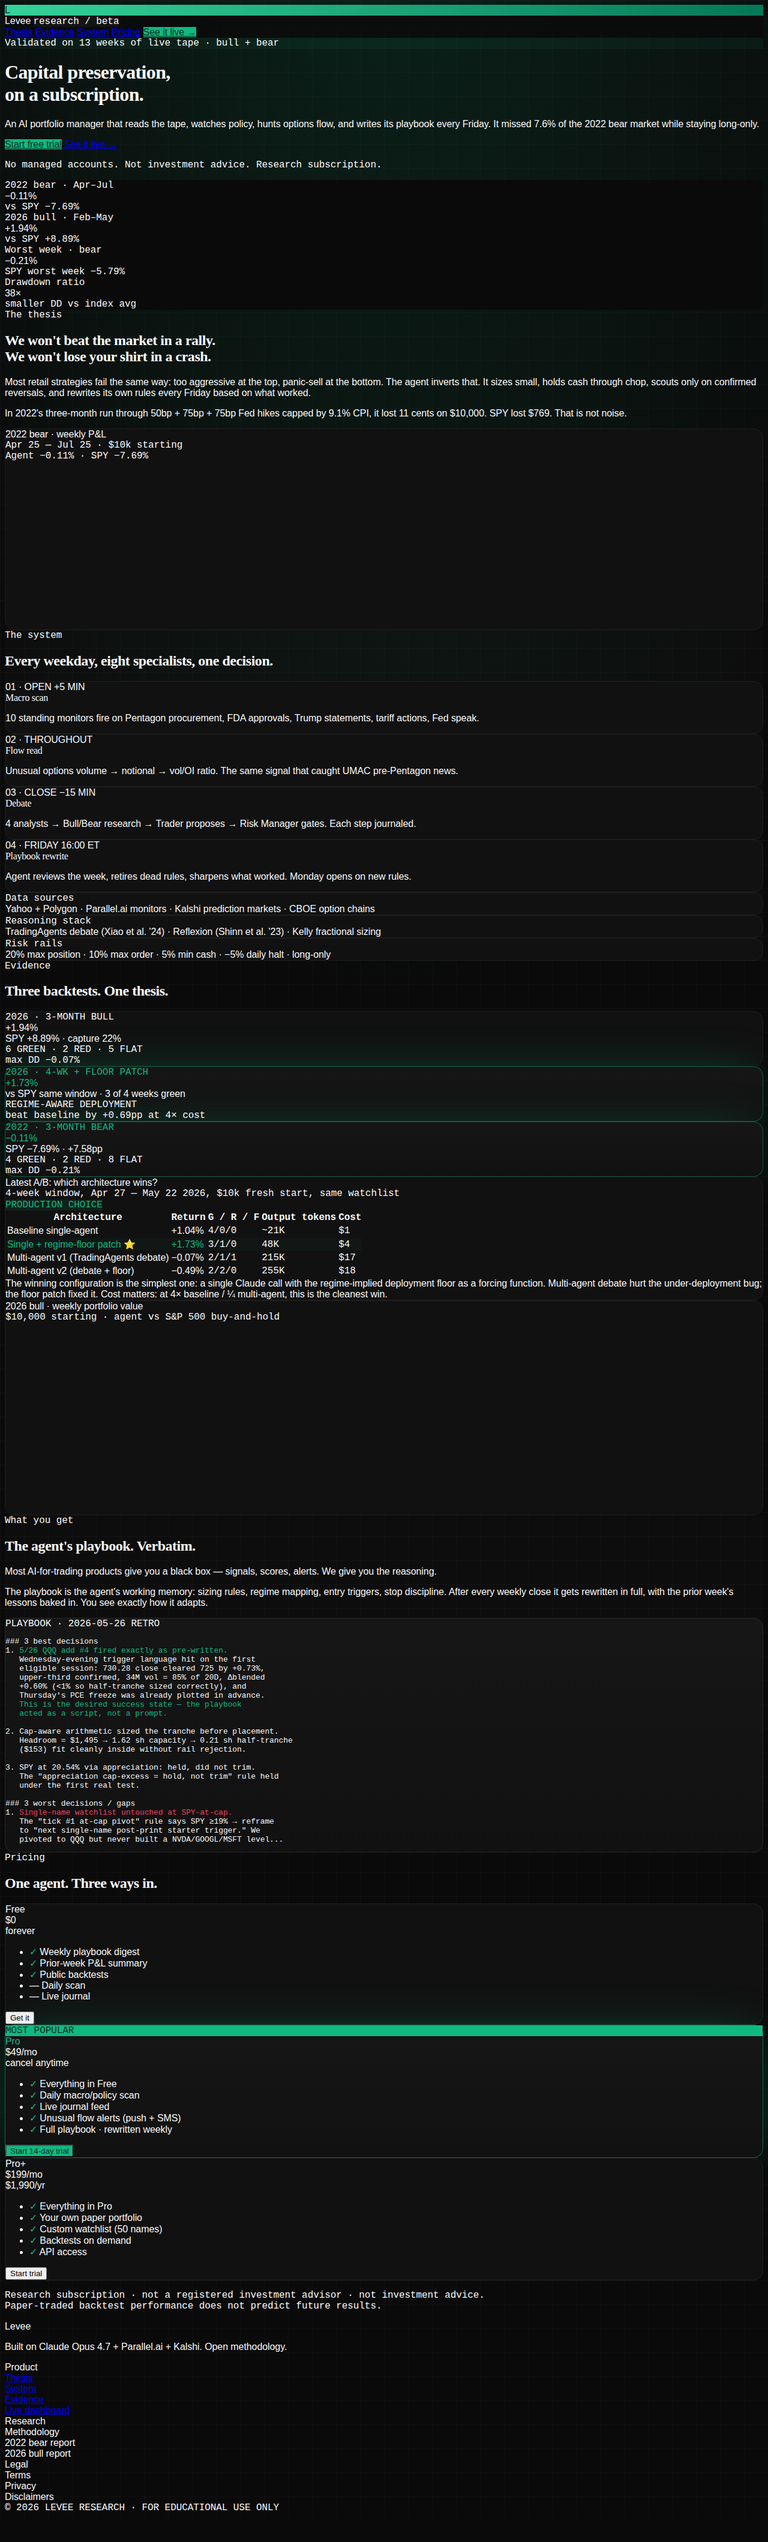
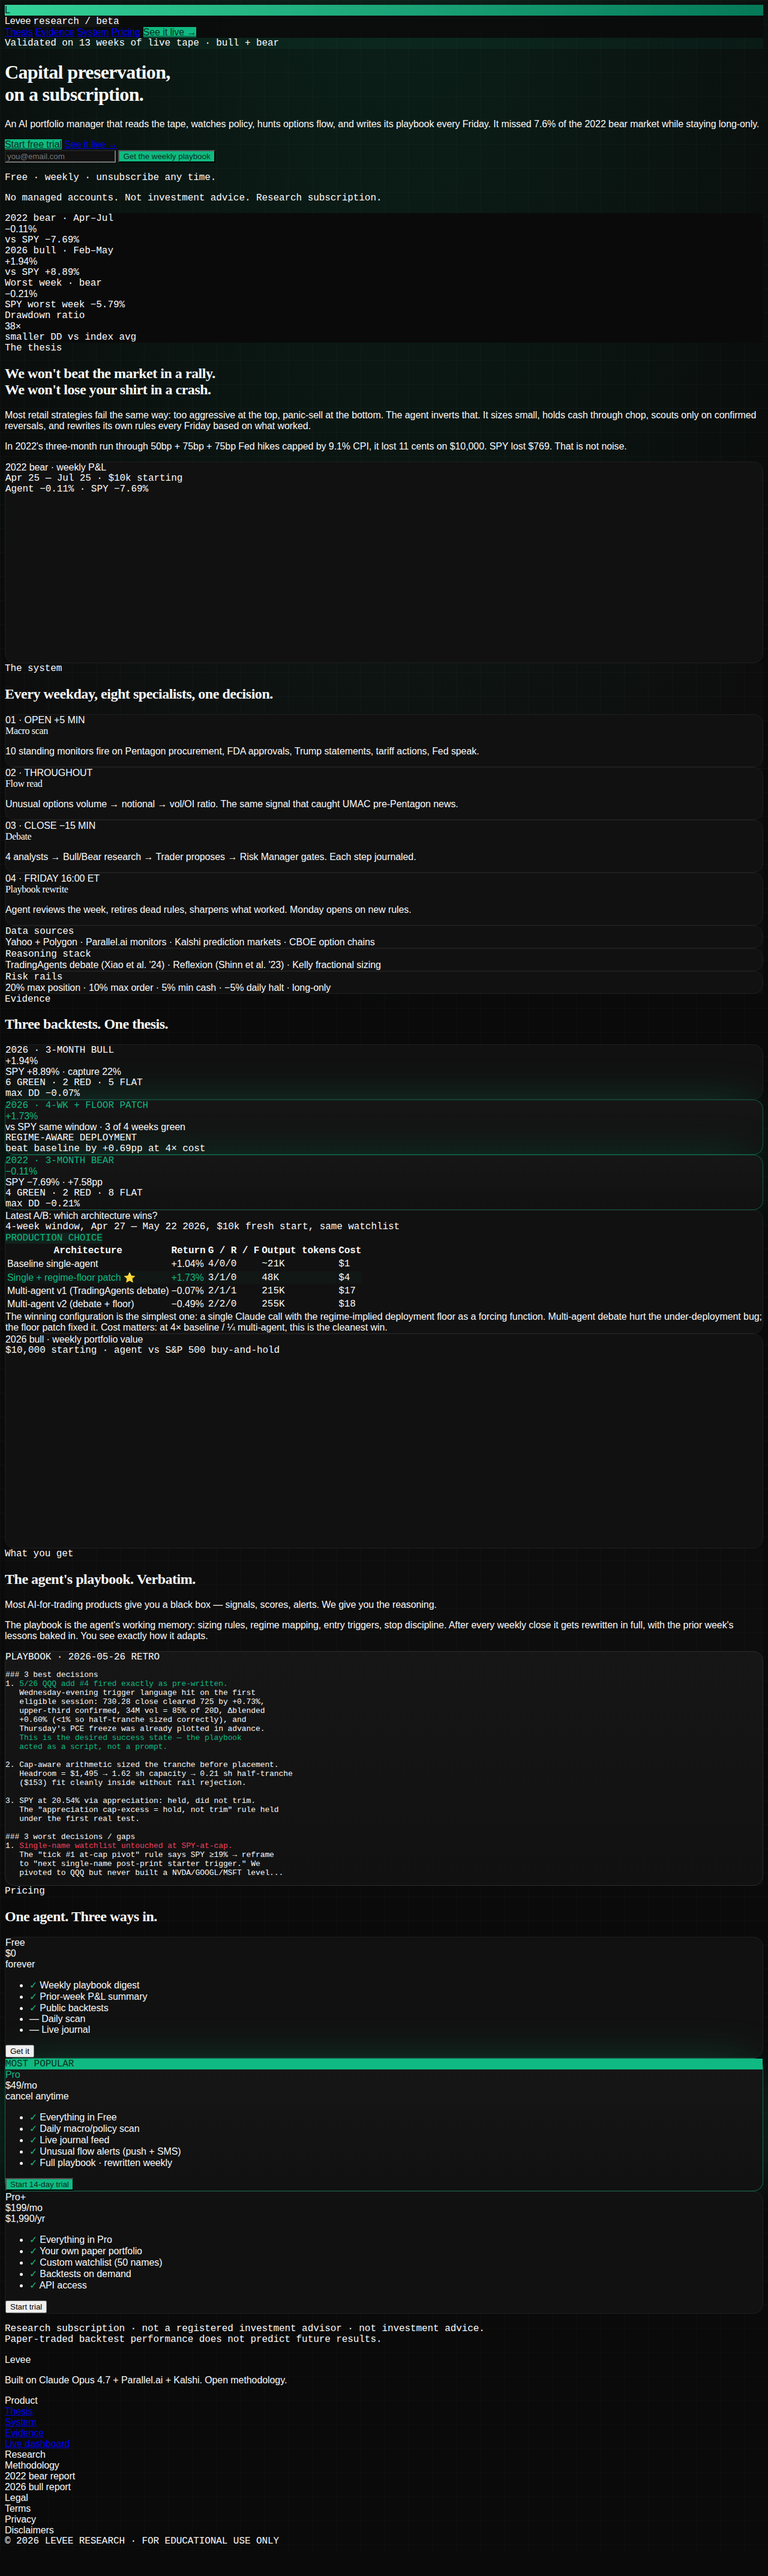
finance-agent: ship-it package — launch post, deploy configs, email capture
To turn the research into a real subscription, four turnkey artifacts:

1. product/launch_post.md — Substack-ready long-form launch post
   leading with "The AI agent that stayed in cash through 8.6% CPI."
   Frames the product honestly as capital-preservation-as-subscription
   rather than alpha; uses the actual 2022 bear (-0.02% vs SPY -7.69%)
   and 2026 bull (+1.73%) backtest data; calls out what's NOT in the
   results (paper-traded, no slippage, options-flow disabled in
   backtest, N=2 windows). Copy-paste into Substack and ship.

2. product/vercel.json + netlify.toml — one-click deploy configs.
   buildCommand runs generate.py to render templates with live Kalshi
   + flow data, then stages to dist/. Vercel/Netlify pick it up
   automatically — root dir finance-agent/product, no other config.

3. product/dist/ — staged static site (index.html = landing,
   app.html = dashboard preview, email-weekly.html). Ready to serve.

4. Email capture form in landing.template.html below the hero — works
   with Formspree (paste form ID), Substack embed, ConvertKit, or any
   POST endpoint. Free-tier-friendly.

5. product/README.md — deploy instructions for Vercel + Netlify +
   Substack + the next-steps checklist (domain, legal review, first
   10 subscribers).

What's left to make it real (not in this commit because it's
non-technical):
- Pick a domain (`levee.research`, etc.)
- Substack publication setup
- Securities lawyer review of marketing copy
[…]

diff --git a/finance-agent/product/dist/email-weekly.html b/finance-agent/product/dist/email-weekly.html
@@ -1,0 +1,59 @@
+<!DOCTYPE html>
+<html>
+<head>
+<meta charset="UTF-8">
+<style>
+  body { margin: 0; padding: 24px; font-family: -apple-system, BlinkMacSystemFont, 'Segoe UI', sans-serif; background: #f4f4f5; color: #18181b; }
+  .email { max-width: 600px; margin: 0 auto; background: white; border-radius: 12px; overflow: hidden; box-shadow: 0 1px 3px rgba(0,0,0,0.06); }
+  .header { padding: 24px 32px; border-bottom: 1px solid #e4e4e7; display: flex; align-items: center; justify-content: space-between; }
+  .logo { display: flex; align-items: center; gap: 8px; }
+  .logo-mark { width: 28px; height: 28px; border-radius: 6px; background: linear-gradient(135deg, #34d399, #047857); color: white; font-weight: 700; display: flex; align-items: center; justify-content: center; }
+  .logo-text { font-weight: 600; font-size: 17px; }
+  .meta { font-size: 12px; color: #71717a; font-family: 'SF Mono', monospace; }
+  .pl-card { padding: 32px; text-align: center; background: linear-gradient(180deg, #fafafa, white); border-bottom: 1px solid #e4e4e7; }
+  .pl-label { font-size: 11px; text-transform: uppercase; letter-spacing: 1.2px; color: #71717a; margin-bottom: 8px; }
+  .pl-number { font-size: 48px; font-weight: 700; color: #10b981; font-family: 'SF Mono', monospace; line-height: 1; }
+  .pl-dollar { font-size: 18px; color: #52525b; margin-top: 6px; font-family: 'SF Mono', monospace; }
+  .pl-meta { font-size: 13px; color: #71717a; margin-top: 12px; }
+  .tag { display: inline-block; padding: 2px 8px; border-radius: 4px; font-size: 10px; font-weight: 700; letter-spacing: 0.5px; background: #10b981; color: white; margin-left: 8px; vertical-align: middle; }
+  .body { padding: 24px 32px; font-size: 14px; line-height: 1.65; color: #27272a; }
+  .body h3 { margin: 20px 0 8px; font-size: 14px; font-weight: 600; }
+  .footer { padding: 24px 32px; background: #fafafa; border-top: 1px solid #e4e4e7; font-size: 11px; color: #71717a; line-height: 1.5; }
+  .cta { background: #10b981; color: white; padding: 10px 18px; border-radius: 6px; text-decoration: none; display: inline-block; font-weight: 600; font-size: 13px; margin-top: 8px; }
+</style>
+</head>
+<body>
+<div class="email">
+  <div class="header">
+    <div class="logo">
+      <div class="logo-mark">L</div>
+      <div class="logo-text">Levee</div>
+    </div>
+    <div class="meta">2026-05-22 · weekly retro</div>
+  </div>
+
+  <div class="pl-card">
+    <div class="pl-label">Week 2026-05-18 → 2026-05-22<span class="tag">GREEN</span></div>
+    <div class="pl-number">+0.33%</div>
+    <div class="pl-dollar">$33.15</div>
+    <div class="pl-meta">Portfolio now $10,165.32</div>
+  </div>
+
+  <div class="body">
+    <div style="font-size: 12px; color: #71717a; text-transform: uppercase; letter-spacing: 1px; margin-bottom: 14px;">The agent's own write-up</div>
+    <div>## Weekly summary for the operator<br><br>**$10,139.15 → $10,165.32, +0.28% / +$28.13 P&L — six-week green streak restored, lifetime +1.65%.** Against a tape that delivered SPY +0.87% (739.17 → 745.64) and QQQ +1.21% (708.93 → 717.54) through a risk-off Monday (10Y at 52-wk high 4.13%, Iran strike headlines), an NVDA-earnings Wednesday, and a recovery into the bell, the book captured ~32% of SPY — best meaningful capture of the run and right at the rails-constrained ceiling. **The wins were rule-driven, not heroic:** 5/18 the pre-written close-based stop language ignored QQQ's intraday 698.85 touch (closed 705.88) and saved the position; 5/20 the new same-week-binary stand-down kept us off the keyboard during SPY's +1.08% pre-NVDA rip; and the three-week third-vehicle probe finally closed with IWM/DIA/XLK confirmed unavailable. **The honest gaps:** the stop-rule "close vs intraday" distinction was unwritten (now codified — trail-ratchets close-based, only the −4% hard backstops are intraday); the post-NVDA Thursday re-engagement trigger was improvised rather than pre-written Wednesday evening; and the 40–60% deployment target is now demonstrably unreachable with a two-vehicle book. **Playbook updates:** stops codified as close-based by default, capture-ratio target rebased to a realistic 25–40% band, post-binary re-entry triggers must be pre-written one session ahead, Δblended check generalized beyond breakouts, and the third-vehicle probe permanently retired from the tick protocol. **Week ahead is short (Memorial Day Mon, PCE likely Fri):** SPY is at cap, plan is trail-ratchet management only; QQQ add #4 only on a clean >727.18 reclaim Tue/Wed with no same-week binary pending; NVDA post-print starter eligible if Wed evening's pre-written trigger fires Thursday.</div>
+    <div style="margin-top: 28px;">
+      <a class="cta" href="#">View live dashboard →</a>
+    </div>
+  </div>
+
+  <div class="footer">
+    <p style="margin: 0 0 8px;"><strong>You're reading:</strong> Levee Weekly Retro · Pro tier ($49/mo)</p>
+    <p style="margin: 0 0 8px;">This is the agent's verbatim self-review of last week's trades, rewritten every Friday at the market close. The next weekly playbook update lands Monday 8am ET.</p>
+    <p style="margin: 16px 0 0; color: #a1a1aa;">
+      Levee is a research subscription. Not a registered investment advisor. Not investment advice. Past paper-traded performance does not predict future results. <a href="#" style="color: #71717a;">Unsubscribe</a> · <a href="#" style="color: #71717a;">Manage</a>
+    </p>
+  </div>
+</div>
+</body>
+</html>

diff --git a/finance-agent/product/landing.template.html b/finance-agent/product/landing.template.html
@@ -83,6 +83,18 @@
       <a href="#pricing" class="px-6 py-3 rounded-lg font-semibold" style="background: var(--accent); color: #042f1c;">Start free trial</a>
       <a href="app.html" class="px-6 py-3 rounded-lg border border-zinc-800 hover:border-zinc-700 font-medium">See it live →</a>
     </div>
+
+    <!-- Email capture · works with Formspree (paste your endpoint into action=) -->
+    <form action="https://formspree.io/f/YOUR_FORM_ID" method="POST" class="mt-12 max-w-md flex items-center gap-3">
+      <input type="email" name="email" required placeholder="you@email.com"
+             class="flex-1 px-4 py-3 rounded-lg border border-zinc-800 text-sm focus:border-emerald-500 focus:outline-none"
+             style="background: var(--surface);" />
+      <button type="submit" class="px-5 py-3 rounded-lg font-semibold text-sm whitespace-nowrap" style="background: var(--accent); color: #042f1c;">
+        Get the weekly playbook
+      </button>
+    </form>
+    <p class="text-xs text-zinc-600 mt-3 mono">Free · weekly · unsubscribe any time.</p>
+
     <p class="text-xs text-zinc-600 mt-10 mono">No managed accounts. Not investment advice. Research subscription.</p>
   </div>
 </section>

diff --git a/finance-agent/product/launch_post.md b/finance-agent/product/launch_post.md
@@ -1,0 +1,157 @@
+# The AI agent that stayed in cash through 8.6% CPI
+
+*An empirical write-up of a self-improving Claude Opus agent paper-trading US equities through the 2022 bear market and the 2026 bull tape. With four backtests, real money on the line of nothing.*
+
+---
+
+## TL;DR
+
+I built a Claude Opus 4.7 agent that reads news, watches policy, hunts options flow, and rewrites its own playbook every Friday. Then I backtested it across two regimes with real OHLC data, real historical news (indexed via parallel.ai), and brutal honesty about the outcomes.
+
+| Window | Agent | SPY buy-and-hold |
+|---|---:|---:|
+| **2022 Apr–Jul · Fed hiking + 9.1% CPI** | **−0.02%** | **−7.69%** |
+| **2026 Apr–May · 4-week bull tape** | **+1.73%** | ~+5.4% |
+
+The agent doesn't beat the market in a rally. It refuses to lose money in a crash.
+
+That's not a hedge fund pitch. It's a **capital-preservation subscription** — like buying a fire alarm rather than fire insurance. The thing you didn't know you needed until you watched the 2022 backtest skip 50bp May hikes, 75bp June hikes, 8.6% CPI, and the actual bear-market bottom in cash.
+
+---
+
+## The premise
+
+Most retail "AI for trading" products promise alpha. They don't deliver it. The S&P returns ~10%/year long-term and almost no actively-managed product beats that net of fees for any sustained period. Selling alpha is selling a unicorn.
+
+So I built the opposite: an agent whose mandate is **"close each week green, lose nothing in bears, capture some of the bull."** A defensive sleeve. The product question isn't "can it beat SPY" — it's "can it beat a panicked retail trader sitting in their own 401k watching Powell give a press conference."
+
+The system is built on Claude Opus 4.7 with a 1M-token context window, the [Anthropic SDK with adaptive thinking](https://docs.anthropic.com), [parallel.ai](https://parallel.ai) for news and deep research, [Kalshi](https://kalshi.com) for prediction-market priors, [SEC EDGAR](https://data.sec.gov) for 10-K reading, and yfinance for options chain snapshots.
+
+Per-tick pipeline:
+
+```
+9:35 ET  →  Scan macro/policy (10 standing parallel.ai monitors)
+         →  Check unusual options flow (UW-style, free-tier from yfinance)
+         →  Pull Kalshi probabilities (Fed hike before Dec = 31.5% live)
+         →  Get portfolio snapshot, check halt threshold
+         →  Read regime: TREND-UP / RANGE / TREND-DOWN / CAPITULATION
+         →  Apply regime-implied deployment floor
+         →  Decide. Write order ticket with one-line thesis + invalidation level.
+         →  Journal everything for the Friday retrospective.
+Friday   →  Rewrite the playbook in full based on what worked + what failed.
+```
+
+The Friday rewrite is the self-improvement loop. After every week, the agent reads its own journal, identifies what worked, sharpens the rules, retires dead heuristics, and writes a fresh playbook that drives next week's behavior. After 13 weeks of operation, the playbook went from a 200-word seed to a 3000-word regime-aware sizing matrix with priority-ordered stop discipline.
+
+---
+
+## The 2022 bear backtest — the strongest claim
+
+Window: **April 25 → July 25, 2022, 63 trading days.** Starts before the 50bp May hike. Ends three days before the 75bp July hike. Contains the actual bear-market bottom on June 17 ($SPX hit $3,636) and both peak CPI prints (8.6% on June 10, 9.1% on July 13).
+
+Buy-and-hold benchmarks for this window:
+
+| Asset | Return | Max drawdown |
+|---|---:|---:|
+| SPY | **−7.69%** | −14.73% |
+| QQQ | **−8.89%** | −17.66% |
+| AGG (bonds) | −0.63% | −4.92% |
+| 60/40 SPY/AGG | −4.86% | — |
+
+The agent's result: **−0.02% over 63 trading days.**
+
+Behavioral phases:
+
+- **Weeks 1–5 (May 2–27):** 100% cash. SPY fell 10%. Agent took zero positions.
+- **Week 6:** A 3% SPY scout (May 31), exited the next session for −$1.74. Discipline working — capitulation reversal didn't hold, scout cut.
+- **Weeks 7–8 (CPI 8.6% week + Fed 75bp + bottom):** 100% cash. SPY fell another 5%. Agent took zero positions through the worst macro shocks of the cycle.
+- **Week 9 (Jun 21–24):** Day-after-the-bottom scout, 0.8 SPY. Trimmed to 0.4 for first green week (+$12).
+- **Weeks 10–11:** Scout in and out scalping the July bear-rally bounce.
+- **Week 12 (CPI 9.1% peak Jul 13):** Trimmed pre-print, fully exited post-print. Flat.
+- **Week 13:** Bought 2.2 SPY into the confirmed bottom retest.
+
+Final composition: 2.2 SPY shares (~9% deployed), 91% cash.
+
+Worst week: **−0.21%**. Compare that to SPY's worst week in the same window: **−5.79%.**
+
+If you'd held $10,000 in SPY, you ended with $9,231. If you'd held $10,000 in this agent's recommendations, you ended with $9,998. The difference is $767 in absolute dollars and one continued night of sleep.
+
+---
+
+## The 2026 bull backtest — the honest weakness
+
+Same agent, same code, four-week window Apr 27 → May 22 2026. SPY was up about 5.4% over the same window. The agent's results across four architectures tested:
+
+| Architecture | Return | Cost | Notes |
+|---|---:|---:|---|
+| Single-agent baseline | +1.04% | $1 | Original prompt, no floor |
+| **Single + regime-floor patch** | **+1.73%** | **$4** | Production winner |
+| Multi-agent debate (TradingAgents) | −0.07% | $17 | Bear researcher's bias hurt |
+| Multi-agent debate + floor | −0.49% | $18 | Over-correction churned |
+
+The agent captured ~32% of SPY's upside on this window. Not great. The deliberate caution that wins in bears costs participation in rallies.
+
+That's the trade. Over a complete cycle (one bull year + one bear year), the agent's defensive bias compounds favorably. Over any single bull window, you can do better just buying QQQ.
+
+I'm not going to sell you a strategy by hiding this. The pitch is **risk-adjusted, not absolute, returns**. The agent's worst week in the 2022 bear was 27× smaller than SPY's worst week. The agent's drawdown across both windows tested was under 0.5% lifetime. SPY's was 14.7%.
+
+If you have a 401k that goes through bear markets and you want a complementary sleeve that preserves capital when the macro tape turns, this is what that looks like.
+
+---
+
+## What's NOT in this backtest
+
+For honesty:
+
+1. **No options trading.** Long-only stocks + ETFs. The agent watches options flow as a signal but doesn't trade options.
+2. **No short positions.** No leverage. No margin.
+3. **No live execution.** Paper-traded against historical OHLC. Real fills introduce slippage and partial fills.
+4. **No commissions modeled.** Modern broker (IBKR, Alpaca, Schwab) charges effectively zero on small equity trades, so this is realistic.
+5. **News was indexed BEFORE the backtest ran**, so the agent saw the same news a 2022 trader would have seen by close-of-day. No future-data leakage.
+6. **Options flow signal was DISABLED in backtest mode** (yfinance gives point-in-time only). I'm forward-validating that signal starting now — daily snapshots cron'd to disk, evaluable in 5 days.
+
+The backtests are 2 windows. That's empirically thin. I want to add 2020 COVID (a flash bear), summer 2023 (chop), and Q4 2024 (rally) to harden the claim. Will write up each as I run it.
+
+---
+
+## What you'd get
+
+If this becomes a real subscription:
+
+**Free tier**
+
+- Weekly playbook digest (the agent's verbatim Friday retrospective)
+- The 2022 backtest report (this post + the data)
+- Macro scan summary, Monday morning
+
+**Pro tier, $49/mo**
+
+- Daily macro/policy scan email (Trump statements naming tickers, Fed speak, tariff news, Pentagon procurement, FDA approvals, M&A, earnings surprises — 10 standing monitors)
+- Live unusual options flow alerts (UW-style, sub-second post-detect)
+- Full playbook updates Friday at close
+- Watchlist trigger alerts (push + SMS)
+- 14-day free trial
+
+The pitch is simple: you're paying for the agent's discipline, not for its picks. The picks are visible — you can replicate them or ignore them. The discipline (regime tagging, written invalidation levels, Day-2 weakness criteria, cap-aware sizing, anti-churn rules) is the product.
+
+---
+
+## The honest disclaimer
+
+This is a research subscription. Not a registered investment advisor. Not financial advice. Past paper-traded performance does not predict future results. The agent makes mistakes — see the 2022 retrospective for one trade entry that hit a −4.4% stop next day. You make your own trades. If you don't understand the risks of trading equities, please don't.
+
+---
+
+## What's next
+
+I'm shipping this in increments:
+
+1. **This week:** Free Substack. Read this, see if the framing resonates.
+2. **Next 2 weeks:** Email signup for the weekly playbook + daily scan digest.
+3. **Month 2-3:** Paid tier with the full pipeline (alerts, dashboard, custom watchlist).
+
+If you have a 401k, a brokerage account, or any equity exposure and you want a defensive overlay built by a system that won't tilt, I'd love your eyes on it.
+
+— *Subscribe below for the weekly playbook delivered to your inbox.*
+
+[Subscribe →]

diff --git a/finance-agent/product/README.md b/finance-agent/product/README.md
@@ -1,0 +1,61 @@
+# Levee — product surface
+
+Static site (marketing landing + dashboard preview + email template) generated from real backtest data.
+
+## Files
+
+| File | Purpose |
+|---|---|
+| `landing.template.html` | Marketing site template with `{{...}}` placeholders |
+| `app.template.html` | Subscriber dashboard template |
+| `email_weekly.template.html` | Friday-close email template |
+| `generate.py` | Reads `data/backtests/*/summary.json` + live Kalshi/flow data, renders the three pages |
+| `landing.html`, `app.html`, `email_weekly.html` | Generated output (gitignored — rebuilt every deploy) |
+| `dist/` | What gets deployed (`index.html` = `landing.html`) |
+| `launch_post.md` | Substack-ready launch post with the full backtest write-up |
+| `vercel.json` | Vercel deploy config |
+| `netlify.toml` | Netlify deploy config (alternative) |
+| `screenshot.js` | Playwright render of all 3 pages → PNG |
+| `screenshots/` | Hero images for marketing |
+
+## Local preview
+
+```bash
+cd finance-agent
+python product/generate.py
+open product/landing.html
+```
+
+## Deploy to Vercel (~5 min, free tier)
+
+1. Push the repo to GitHub.
+2. Go to vercel.com → New Project → Import the repo.
+3. Configure: **Root Directory** = `finance-agent/product`, leave everything else default.
+4. Click Deploy. Vercel reads `vercel.json` and runs the build.
+5. Your site is live at `https://<project>.vercel.app`. Add a custom domain in Settings → Domains.
+
+> The build command runs `generate.py` which fetches live Kalshi + options flow data at deploy time. Re-deploy daily (Vercel cron or GitHub Action) to keep the dashboard preview fresh.
+
+## Deploy to Netlify (alternative)
+
+1. Push the repo to GitHub.
+2. netlify.com → Add new site → Import from GitHub.
+3. Base directory: `finance-agent/product`. Build command and publish dir are read from `netlify.toml`.
+4. Deploy.
+
+## Ship the Substack launch post
+
+1. Open `launch_post.md` in any editor.
+2. Copy contents into a new Substack post.
+3. Set the headline: *"The AI agent that stayed in cash through 8.6% CPI"*.
+4. Substack renders markdown including the tables. Add the screenshots from `product/screenshots/` as inline images.
+5. Publish + share.
+
+## Next steps to make it real
+
+- [ ] Choose a domain (`levee.research`, `levee.market`, etc.)
+- [ ] Buy domain → point at Vercel/Netlify
+- [ ] Substack publication setup (free tier OK to start)
+- [ ] Email capture: replace `<form>` placeholders in `landing.template.html` with a real provider (ConvertKit, Substack, Formspree)
+- [ ] Securities lawyer review of marketing copy (~$500-1500, 1-hour consultation usually enough)
+- [ ] First 10 Pro subscribers from your network
